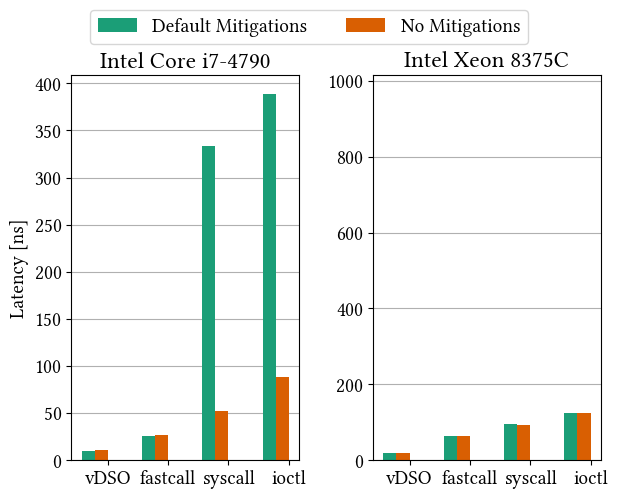
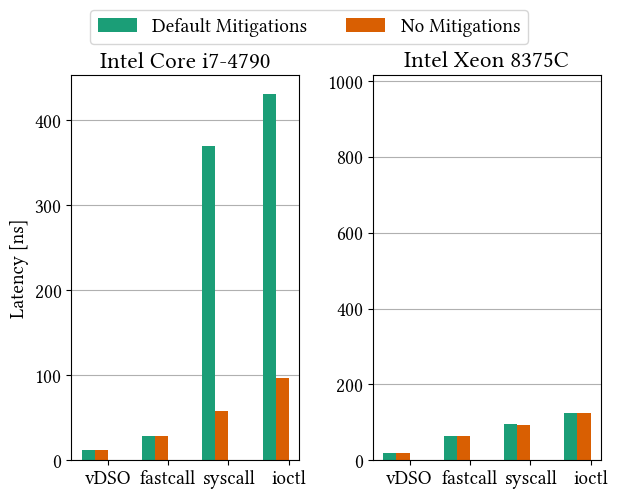
update plots with correct fork measurements

diff --git a/plotting/fork.py b/plotting/fork.py
@@ -24,13 +24,6 @@ AVERAGE = np.median
 GRID_ENABLE = True
 """Show horizontal grid lines."""
 
-SAMPLES = 10000
-"""Number of samples to read from the data files.
-
-This is only needed because of a bug in the benchmark program and should be
-removed when fixed.
-"""
-
 STACK = (
     ("fastcall", "fork-fastcall", "W/ Registrations"),
     ("fastcall", "fork-simple", "W/O Registrations"),
@@ -128,10 +121,7 @@ def read_kernel(data_file):
                 i = -1
             col_map.append(i)
 
-        for r, row in enumerate(reader):
-            if r >= SAMPLES:
-                break
-
+        for row in reader:
             array = np.full(len(MEASURES), np.nan)
             for i, col in enumerate(row):
                 if col_map[i] < 0:
